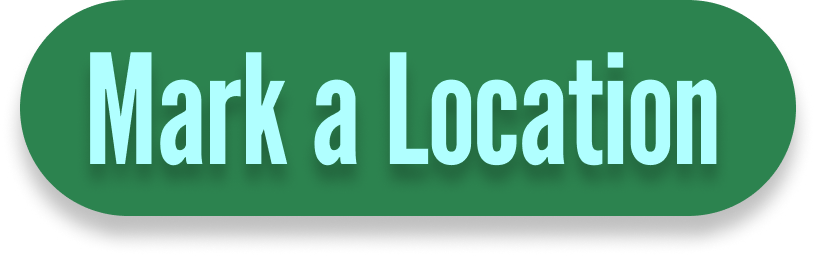
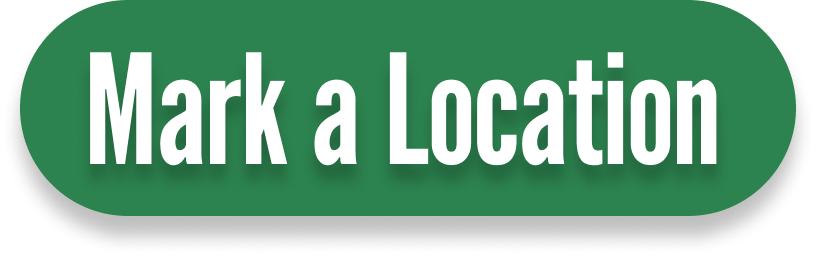
Changed home screen and images in assets

Changed region(s): [[0.0919, 0.1875, 0.8885, 0.6562]]

diff --git a/screens/MapScreen.js b/screens/MapScreen.js
@@ -18,12 +18,12 @@ export default function MapScreen() {
 const styles = StyleSheet.create({
   container: {
     flex: 1,
-    backgroundColor: '#B0FFFF',
+    backgroundColor: '#ffffff',
     alignItems: 'center',
     justifyContent: 'center',
   },
   text: {
-    color: '#044F4F',
+    color: '#000000',
     fontSize: 24,
   }
 });

diff --git a/App.js b/App.js
@@ -19,7 +19,7 @@ export default function App() {
         name="Map"
         component={MapScreen}
         options={{
-          headerStyle: {backgroundColor: '#B0FFFF'},
+          headerStyle: {backgroundColor: '#ffffffff'},
           title: "Return Home"}}
         />
       </Stack.Navigator>
